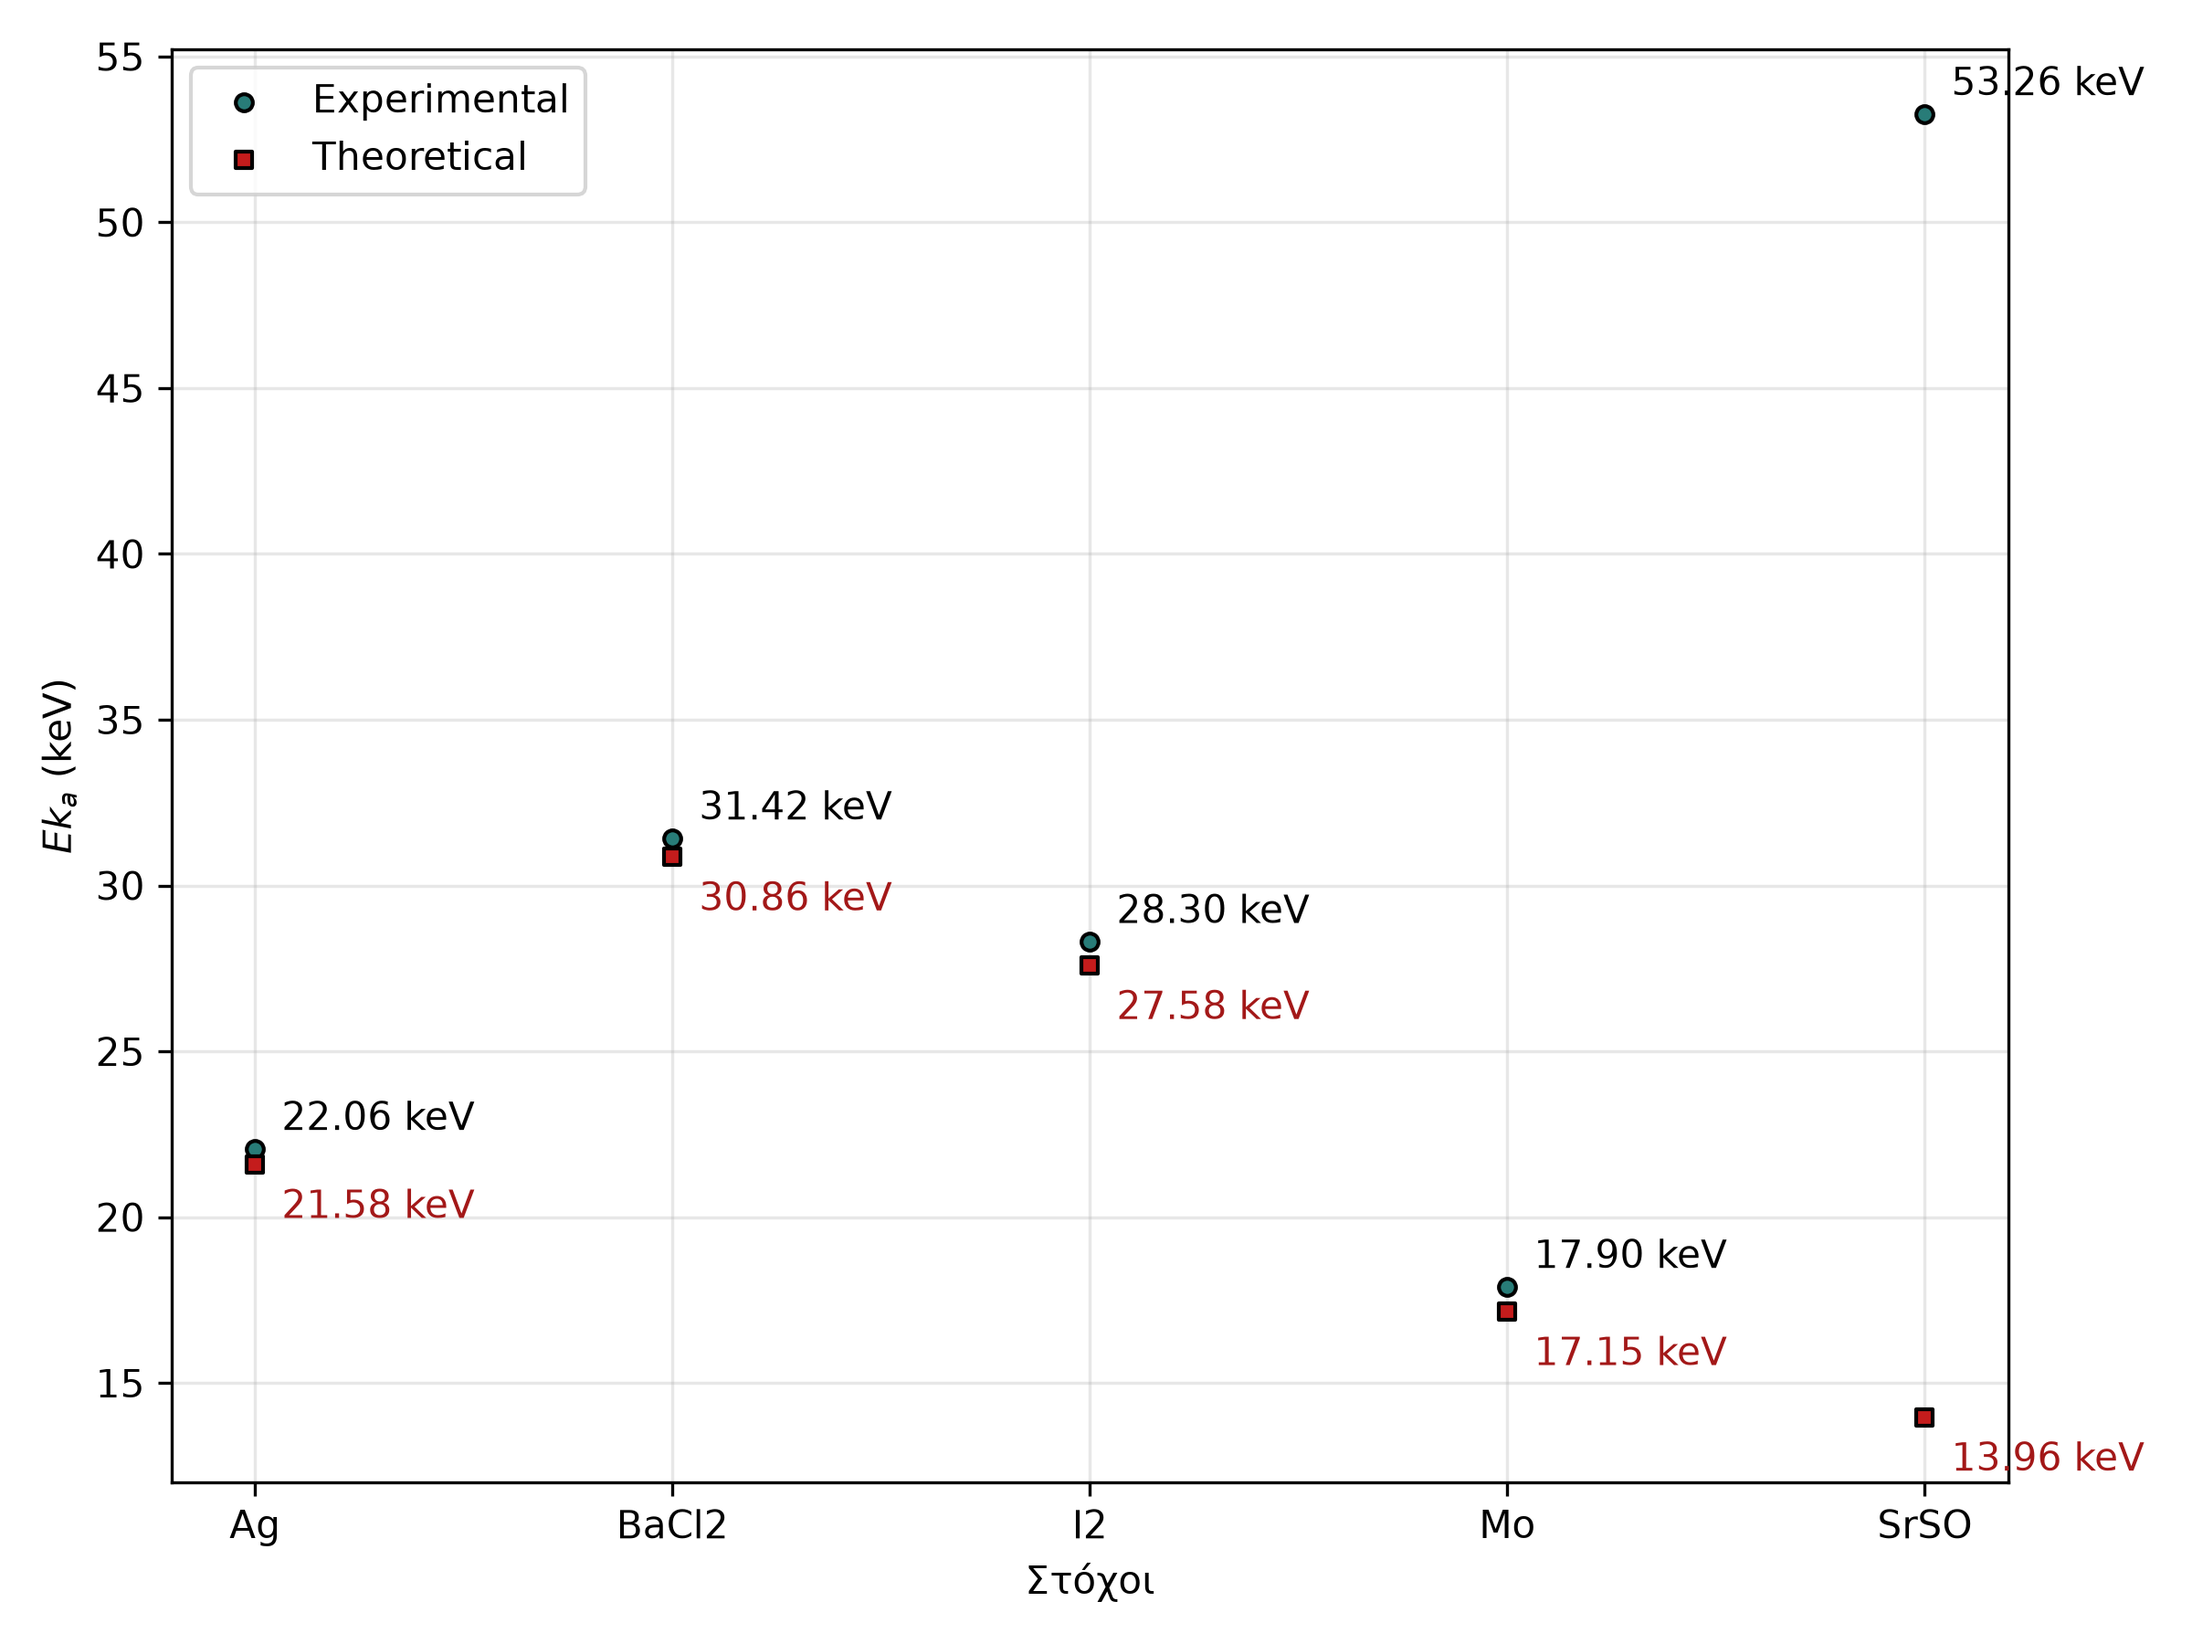
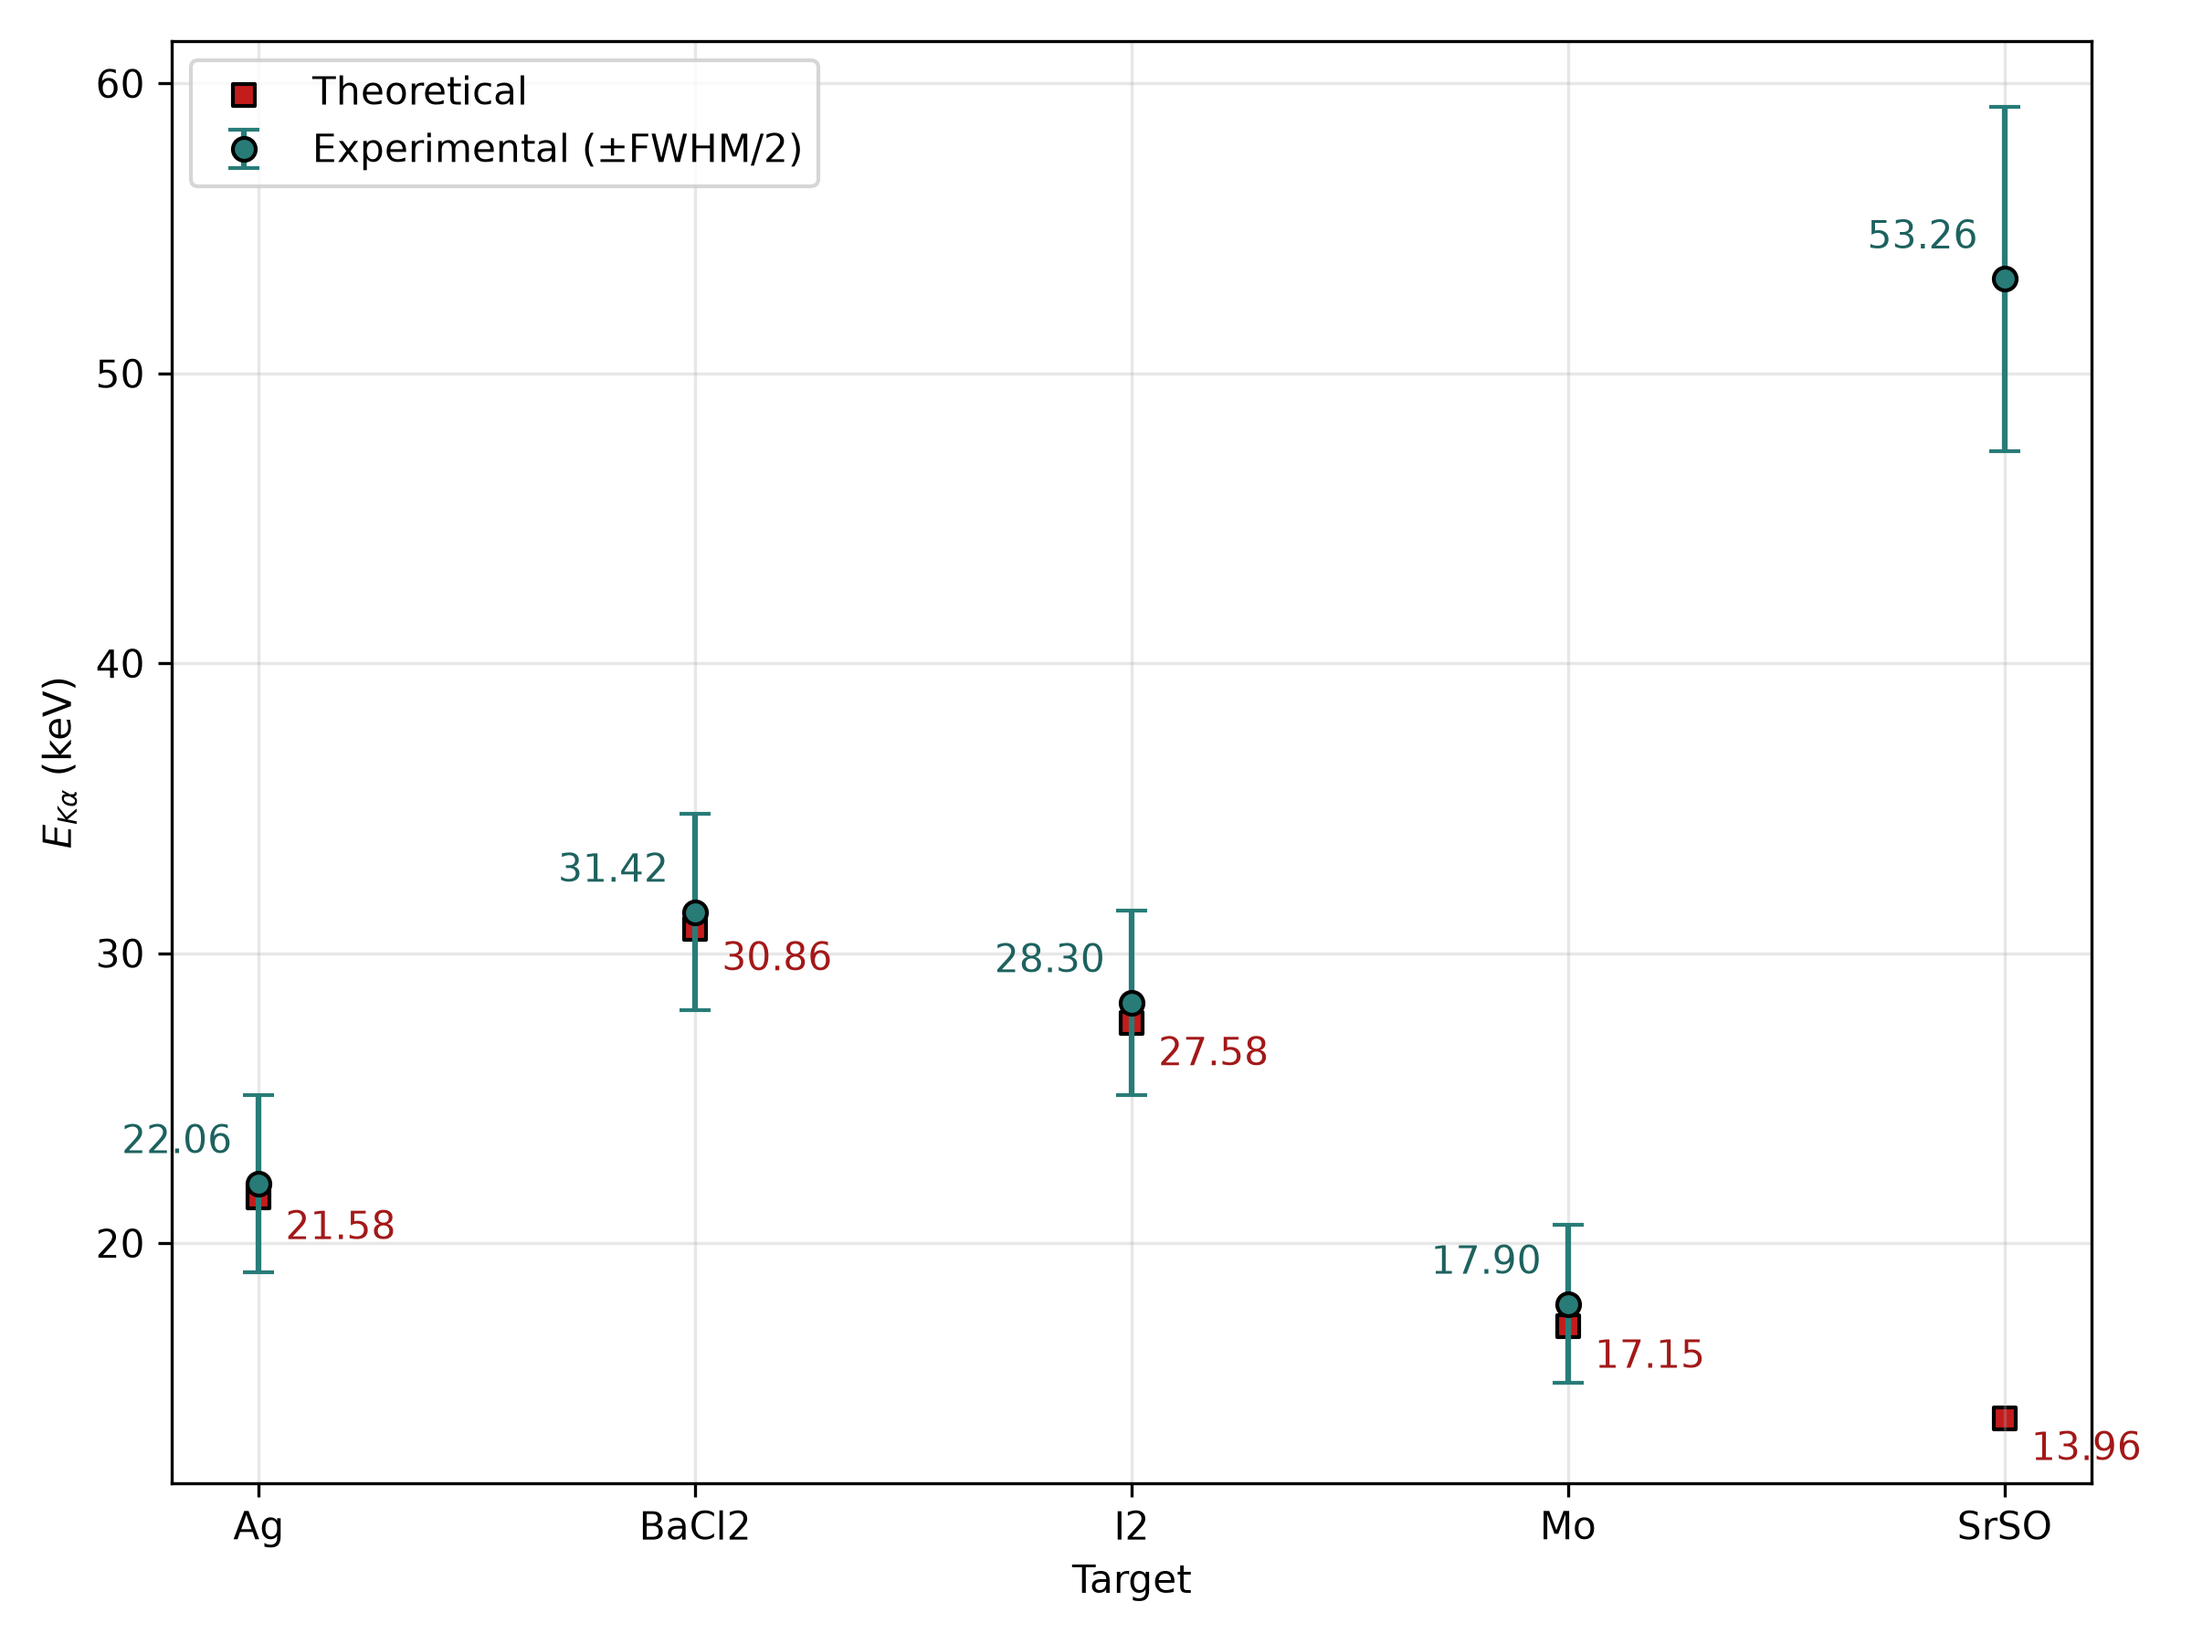
close to fin

diff --git a/2026uni/Lab5/Lab5.py b/2026uni/Lab5/Lab5.py
@@ -15,6 +15,41 @@ def read_spectrum(file_name):
     return mes
 
 
+def calculate_fwhm(spectrum):
+    points = sorted(spectrum.items())
+    if not points:
+        raise ValueError("Cannot calculate FWHM for an empty spectrum")
+
+    peak_index = max(range(len(points)), key=lambda index: points[index][1])
+    peak_count = points[peak_index][1]
+    if peak_count <= 0:
+        raise ValueError("Cannot calculate FWHM when the peak count is zero")
+
+    half_max = peak_count / 2
+
+    left_index = peak_index - 1
+    while left_index >= 0 and points[left_index][1] >= half_max:
+        left_index -= 1
+    if left_index < 0:
+        raise ValueError("Peak does not cross half maximum on the left")
+
+    x1, y1 = points[left_index]
+    x2, y2 = points[left_index + 1]
+    left_crossing = x1 + (half_max - y1) * (x2 - x1) / (y2 - y1)
+
+    right_index = peak_index + 1
+    while right_index < len(points) and points[right_index][1] >= half_max:
+        right_index += 1
+    if right_index == len(points):
+        raise ValueError("Peak does not cross half maximum on the right")
+
+    x1, y1 = points[right_index - 1]
+    x2, y2 = points[right_index]
+    right_crossing = x1 + (half_max - y1) * (x2 - x1) / (y2 - y1)
+
+    return right_crossing - left_crossing
+
+
 def plot_spectrum(file_name, output_name):
     mes = read_spectrum(file_name)
     pulse_heights, counts = zip(*sorted(mes.items()))
@@ -90,16 +125,24 @@ for _, file_name, output_name in sample_spectra:
 
 # Plot gia tis energeies twn stoixwn
 sample_peak_energies = []
+sample_fwhm_energies = []
 for sample, file_name, _ in sample_spectra:
     mes = read_spectrum(file_name)
     peak_pulse_height = max(mes, key=mes.get)
     peak_energy = a * peak_pulse_height + b
     peak_count = mes[peak_pulse_height]
+    fwhm_pulse_height = calculate_fwhm(mes)
+    fwhm_energy = abs(a) * fwhm_pulse_height
     sample_peak_energies.append(peak_energy)
+    sample_fwhm_energies.append(fwhm_energy)
     print(
         f"{sample} peak: pulse height = {peak_pulse_height:.2f}, "
-        f"count = {peak_count}, energy = {peak_energy:.2f} keV"
+        f"count = {peak_count}, energy = {peak_energy:.2f} keV, "
+        f"FWHM = {fwhm_pulse_height:.2f} pulse-height units "
+        f"({fwhm_energy:.2f} keV)"
     )
+
+print("FWHM values in keV:", [f"{x:.2f}" for x in sample_fwhm_energies])
 
 atomic_numbers = [47, 56, 53, 42, 38]
 rydberg_energy_eV = 13.6
@@ -111,46 +154,122 @@ print("Theoretical K-alpha energies (keV):")
 for (sample, _, _), energy in zip(sample_spectra, theoretical_energies):
     print(f"{sample}: {energy:.2f} keV")
 
+sample_indices = range(len(sample_spectra))
 plt.figure(figsize=(8, 6))
-plt.scatter(
-    range(len(sample_spectra)),
+plt.errorbar(
+    sample_indices,
     sample_peak_energies,
+    yerr=[width / 2 for width in sample_fwhm_energies],
+    fmt="o",
     color="#287c78",
-    edgecolor="black",
-    s=20,
-    zorder=3,
-    label="Experimental",
+    ecolor="#287c78",
+    markeredgecolor="black",
+    capsize=4,
+    label="Experimental (±FWHM/2)",
 )
 plt.scatter(
-    range(len(sample_spectra)),
+    sample_indices,
     theoretical_energies,
     color="#c41c1c",
     marker="s",
     edgecolor="black",
-    s=20,
-    zorder=3,
+    s=35,
     label="Theoretical",
 )
-for sample_index, peak_energy in enumerate(sample_peak_energies):
+for index, energy in enumerate(sample_peak_energies):
     plt.annotate(
-        f"{peak_energy:.2f} keV",
-        (sample_index, peak_energy),
-        xytext=(7, 5),
+        f"{energy:.2f}",
+        (index, energy),
+        xytext=(-7, 8),
         textcoords="offset points",
+        ha="right",
+        color="#1d625f",
     )
-for sample_index, energy in enumerate(theoretical_energies):
+for index, energy in enumerate(theoretical_energies):
     plt.annotate(
-        f"{energy:.2f} keV",
-        (sample_index, energy),
-        xytext=(7, -14),
+        f"{energy:.2f}",
+        (index, energy),
+        xytext=(7, -11),
         textcoords="offset points",
         color="#a31818",
     )
-plt.xticks(range(len(sample_spectra)), [sample for sample, _, _ in sample_spectra])
-plt.xlabel("Στόχοι")
-plt.ylabel(r"$E{k_a}$ (keV)")
+plt.xticks(sample_indices, [sample for sample, _, _ in sample_spectra])
+plt.xlabel("Target")
+plt.ylabel(r"$E_{K\alpha}$ (keV)")
 plt.grid(True, alpha=0.3)
 plt.legend()
 plt.tight_layout()
 plt.savefig(Path(__file__).with_name("Lab5_calibrated_spectra_peaks.png"), dpi=300)
+plt.close()
+
+
+# Moseley's law fit
+mosley_x = [(atomic_number - 1) ** 2 for atomic_number in atomic_numbers]
+mosley_data = [
+    (x_value, energy, fwhm, sample)
+    for x_value, energy, fwhm, (sample, _, _) in zip(
+        mosley_x, sample_peak_energies, sample_fwhm_energies, sample_spectra
+    )
+    if sample != "SrSO"
+]
+mosley_x, mosley_energies, mosley_fwhm, mosley_samples = zip(*mosley_data)
+mosley_slope = sum(
+    x_value * energy for x_value, energy in zip(mosley_x, mosley_energies)
+) / sum(x_value**2 for x_value in mosley_x)
+mosley_residual_sum_squares = sum(
+    (energy - mosley_slope * x_value) ** 2
+    for x_value, energy in zip(mosley_x, mosley_energies)
+)
+mosley_slope_error = (
+    mosley_residual_sum_squares
+    / ((len(mosley_x) - 1) * sum(x_value**2 for x_value in mosley_x))
+) ** 0.5
+experimental_rydberg_keV = mosley_slope / (1 - 1 / 2**2)
+experimental_rydberg_eV = experimental_rydberg_keV * 1000
+experimental_rydberg_error_eV = mosley_slope_error / (1 - 1 / 2**2) * 1000
+print(
+    f"Moseley fit: E_Kα = ({mosley_slope:.6f} ± "
+    f"{mosley_slope_error:.6f}) (Z - 1)^2 keV"
+)
+print(
+    f"Experimental Rydberg energy: {experimental_rydberg_eV:.2f} ± "
+    f"{experimental_rydberg_error_eV:.2f} eV"
+)
+
+line_x = [min(mosley_x), max(mosley_x)]
+line_y = [mosley_slope * x_value for x_value in line_x]
+plt.figure(figsize=(8, 6))
+plt.errorbar(
+    mosley_x,
+    mosley_energies,
+    yerr=[width / 2 for width in mosley_fwhm],
+    fmt="o",
+    color="#287c78",
+    ecolor="#287c78",
+    markeredgecolor="black",
+    capsize=4,
+)
+plt.plot(
+    line_x,
+    line_y,
+    color="#c41c1c",
+    label=(
+        rf"$E_{{K\alpha}} = {mosley_slope:.5f}(Z-1)^2$ keV"
+        "\n"
+        rf"$R_{{exp}} = {experimental_rydberg_eV:.2f}eV"
+    ),
+)
+for x_value, peak_energy, sample in zip(mosley_x, mosley_energies, mosley_samples):
+    plt.annotate(
+        sample,
+        (x_value, peak_energy),
+        xytext=(7, 5),
+        textcoords="offset points",
+    )
+plt.xlabel(r"$(Z-1)^2$")
+plt.ylabel(r"$E_{K\alpha}$ (keV)")
+plt.grid(True, alpha=0.3)
+plt.legend()
+plt.tight_layout()
+plt.savefig(Path(__file__).with_name("Lab5_moseley_law.png"), dpi=300)
 plt.close()
